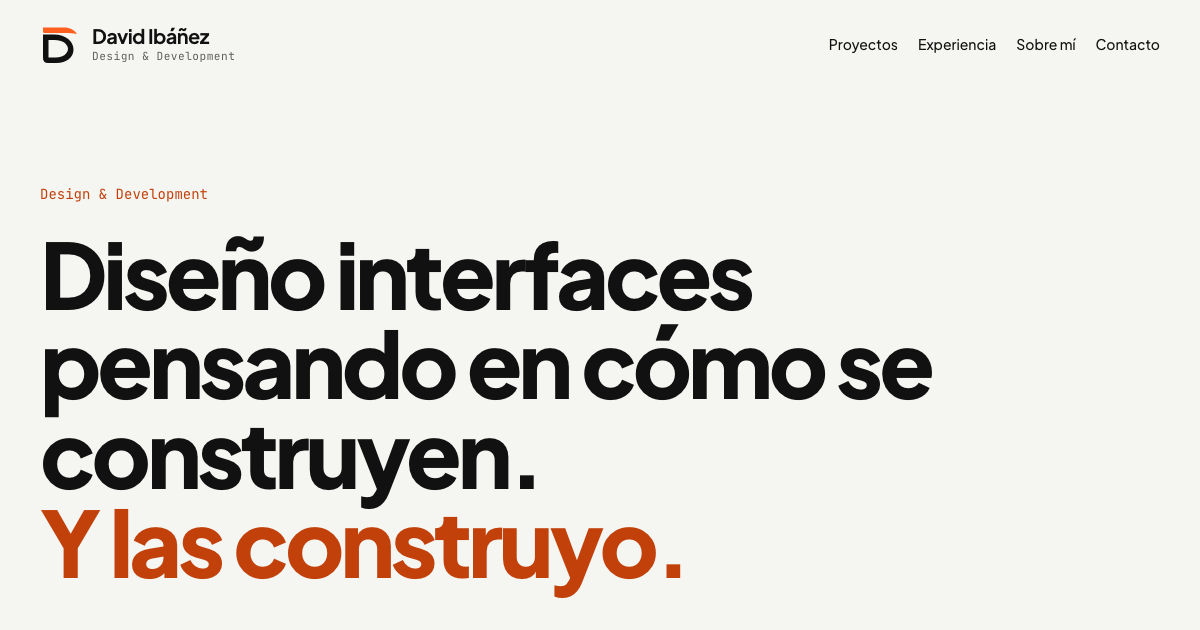
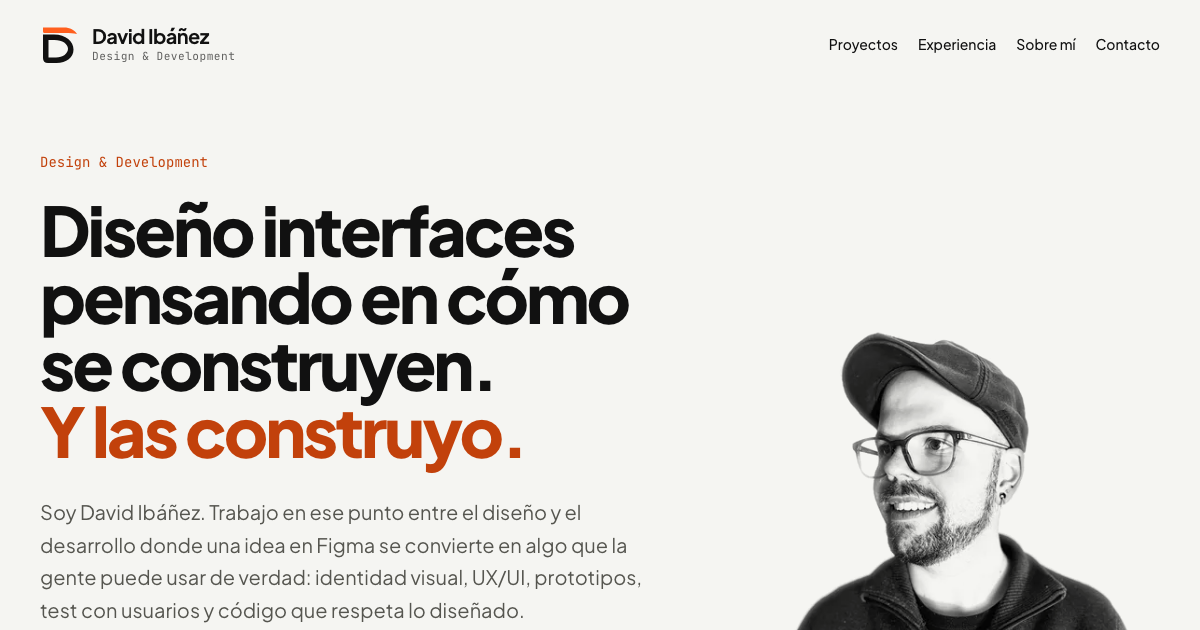
Añade el retrato al hero de la home
- Muestra IMG_6341 junto al titular, configurable desde home.md y con
  texto alternativo obligatorio.
- Funde el fondo de la foto con el papel mediante multiply y un ajuste
  de brillo, y la recorta para dejar fuera las motas de la chaqueta.
- Sirve la imagen optimizada en 480, 800 y 1200 px con carga prioritaria.
- Añade pruebas del retrato y actualiza las referencias visuales y la
  imagen para redes.

Changed region(s): [[0.0308, 0.3016, 0.9558, 1.0], [0.0308, 0.9651, 0.4317, 0.9952], [0.0308, 0.2413, 0.185, 0.2714]]

diff --git a/src/content.config.ts b/src/content.config.ts
@@ -70,28 +70,30 @@ const experience = defineCollection({
 // Textos generales: hero, sobre mí, habilidades, contacto
 const site = defineCollection({
 	loader: glob({ pattern: '**/*.md', base: './src/content/site' }),
-	schema: z.object({
-		title: z.string(),
-		seo_title: z.string(),
-		description: z.string().max(170),
-		hero: z.object({
-			eyebrow: z.string(),
-			headline: z.string(),
-			headline_accent: z.string(),
-			intro: z.string(),
-			cta_primary: link,
-			cta_secondary: link,
+	schema: ({ image }) =>
+		z.object({
+			title: z.string(),
+			seo_title: z.string(),
+			description: z.string().max(170),
+			hero: z.object({
+				eyebrow: z.string(),
+				headline: z.string(),
+				headline_accent: z.string(),
+				intro: z.string(),
+				cta_primary: link,
+				cta_secondary: link,
+				portrait: z.object({ src: image(), alt: z.string().min(1) }),
+			}),
+			projects_intro: z.string(),
+			skills: z.array(z.object({ title: z.string(), items: z.array(z.string()) })),
+			tools: z.array(z.string()),
+			contact: z.object({
+				intro: z.string(),
+				email: z.email(),
+				linkedin: z.url({ protocol: /^https?$/ }),
+				github: z.url({ protocol: /^https?$/ }),
+			}),
 		}),
-		projects_intro: z.string(),
-		skills: z.array(z.object({ title: z.string(), items: z.array(z.string()) })),
-		tools: z.array(z.string()),
-		contact: z.object({
-			intro: z.string(),
-			email: z.email(),
-			linkedin: z.url({ protocol: /^https?$/ }),
-			github: z.url({ protocol: /^https?$/ }),
-		}),
-	}),
 });
 
 export const collections = { projects, experience, site };

diff --git a/tests/e2e/home.spec.ts b/tests/e2e/home.spec.ts
@@ -11,6 +11,25 @@ test('el enlace para saltar al contenido es el primer foco', async ({ page }) =>
 	await expect(skipLink).toBeVisible();
 });
 
+test('el retrato del hero carga optimizado y no hace saltar la página', async ({ page }) => {
+	const portrait = page.getByRole('img', { name: /^Retrato en blanco y negro de David Ibáñez/ });
+	await expect(portrait).toBeVisible();
+	await expect(portrait).toHaveJSProperty('complete', true);
+	await expect(portrait).toHaveAttribute('width', /\d+/);
+	await expect(portrait).toHaveAttribute('height', /\d+/);
+	await expect(portrait).toHaveAttribute('srcset', /\.webp/);
+	await expect(portrait).not.toHaveAttribute('loading', 'lazy');
+});
+
+test('el titular aparece antes que el retrato', async ({ page }) => {
+	const heading = await page.getByRole('heading', { level: 1 }).boundingBox();
+	const portrait = await page.getByRole('img', { name: /^Retrato/ }).boundingBox();
+	expect(heading!.y).toBeLessThan(portrait!.y + portrait!.height);
+	const isMobile = page.viewportSize()!.width < 1024;
+	if (isMobile) expect(heading!.y + heading!.height).toBeLessThanOrEqual(portrait!.y);
+	else expect(heading!.x + heading!.width).toBeLessThanOrEqual(portrait!.x);
+});
+
 test('los botones del hero llevan a sus secciones', async ({ page }) => {
 	await page.getByRole('link', { name: 'Ver proyectos' }).click();
 	await expect(page).toHaveURL(/#proyectos$/);

diff --git a/src/content/site/home.md b/src/content/site/home.md
@@ -9,6 +9,9 @@ hero:
   intro: "Soy David Ibáñez. Trabajo en ese punto entre el diseño y el desarrollo donde una idea en Figma se convierte en algo que la gente puede usar de verdad: identidad visual, UX/UI, prototipos, test con usuarios y código que respeta lo diseñado."
   cta_primary: { label: "Ver proyectos", url: "#proyectos" }
   cta_secondary: { label: "Hablemos", url: "#contacto" }
+  portrait:
+    src: "../../assets/img/IMG_6341.jpg"
+    alt: "Retrato en blanco y negro de David Ibáñez, con gorra, gafas y chaqueta de cremallera, sonriendo y mirando hacia un lado."
 projects_intro: "Dos proyectos, dos puntos de partida distintos. Uno empieza en el diseño de una marca y acaba en una web en producción. El otro empieza en un flujo de usuario y acaba en una base de datos. En los dos, el diseño y el código van de la mano."
 skills:
   - title: "Diseño"
